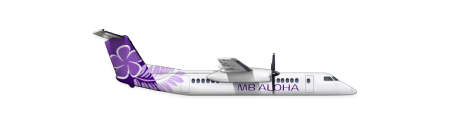
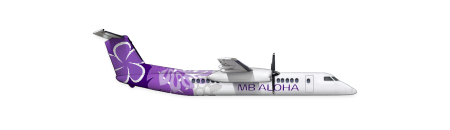
Moved global unity to footer. New MB aloha livery

Changed region(s): [[0.2489, 0.3077, 0.4978, 0.7385]]

diff --git a/flight-status.html b/flight-status.html
@@ -33,11 +33,6 @@
 	</head>
 	<body>
         <header>
-			<div class="gu-section">
-				<span>A Global Unity Alliance Member</span>
-			 	<img src="assets/images/logos/gu_big.png">
-		 	</div>
-
 			<div class="flex-section">
 				<a href="index.html"><img class="logo-img" src="assets/images/logos/mb_logo_web_4.png" alt="MB Airways" /></a>
 				<nav>
@@ -122,12 +117,16 @@
 						<li><a href="https://mb-airways.blogspot.com">Newsroom</a></li>
 					</ul>
 				</div>
-				<div style="text-align:center; align-self: center; color: var(--light-gray-color)">
-					<p>
-						Copyright &copy; 2023 MB Airways. All rights reserved.<br/>
-						MB Airways is a fictitious airline.<br/>
-						No products or services are being offered for sale.
-					</p>
+				<div style="text-align:right; display: flex; flex-direction: column; justify-content: space-evenly; color: var(--light-gray-color)">
+					<small class="gu-section">
+						<span>A Global Unity Alliance Member</span>
+						<img src="assets/images/logos/gu_big.png">
+					</small>
+					<small>
+						Copyright &copy; 2023. All rights reserved<br/>
+						MB Airways is a fictitious airline.	No products<br/>
+						or services are available for purchase
+					</small>
 				</div>
 			</div>
 		</footer>

diff --git a/index.html b/index.html
@@ -27,11 +27,6 @@
 	</head>
 	<body>
 		<header>
-			<div class="gu-section">
-				<span>A Global Unity Alliance Member</span>
-			 	<img src="assets/images/logos/gu_big.png">
-		 	</div>
-
 			<div class="flex-section">
 				<a href="index.html"><img class="logo-img" src="assets/images/logos/mb_logo_web_4.png" alt="MB Airways" /></a>
 				<nav>
@@ -318,12 +313,16 @@
 						<li><a href="https://mb-airways.blogspot.com">Newsroom</a></li>
 					</ul>
 				</div>
-				<div style="text-align:center; align-self: center; color: var(--light-gray-color)">
-					<p>
-						Copyright &copy; 2023 MB Airways. All rights reserved.<br/>
-						MB Airways is a fictitious airline.<br/>
-						No products or services are being offered for sale.
-					</p>
+				<div style="text-align:right; display: flex; flex-direction: column; justify-content: space-evenly; color: var(--light-gray-color)">
+					<small class="gu-section">
+						<span>A Global Unity Alliance Member</span>
+						<img src="assets/images/logos/gu_big.png">
+					</small>
+					<small>
+						Copyright &copy; 2023. All rights reserved<br/>
+						MB Airways is a fictitious airline.	No products<br/>
+						or services are available for purchase
+					</small>
 				</div>
 			</div>
 		</footer>

diff --git a/reservations.html b/reservations.html
@@ -26,11 +26,6 @@
 	</head>
 	<body>
 		<header>
-			<div class="gu-section">
-				<span>A Global Unity Alliance Member</span>
-			 	<img src="assets/images/logos/gu_big.png">
-		 	</div>
-
 			<div class="flex-section">
 				<a href="index.html"><img class="logo-img" src="assets/images/logos/mb_logo_web_4.png" alt="MB Airways" /></a>
 				<nav>
@@ -103,12 +98,16 @@
 						<li><a href="https://mb-airways.blogspot.com">Newsroom</a></li>
 					</ul>
 				</div>
-				<div style="text-align:center; align-self: center; color: var(--light-gray-color)">
-					<p>
-						Copyright &copy; 2023 MB Airways. All rights reserved.<br/>
-						MB Airways is a fictitious airline.<br/>
-						No products or services are being offered for sale.
-					</p>
+				<div style="text-align:right; display: flex; flex-direction: column; justify-content: space-evenly; color: var(--light-gray-color)">
+					<small class="gu-section">
+						<span>A Global Unity Alliance Member</span>
+						<img src="assets/images/logos/gu_big.png">
+					</small>
+					<small>
+						Copyright &copy; 2023. All rights reserved<br/>
+						MB Airways is a fictitious airline.	No products<br/>
+						or services are available for purchase
+					</small>
 				</div>
 			</div>
 		</footer>

diff --git a/assets/styles/main.css b/assets/styles/main.css
@@ -130,8 +130,7 @@ hr.big {
 }
 
 .gu-section {
-	color: var(--gu-primary-color);
-	font-size: 80%;
+	color: var(--light-gray-color);
 	display: flex;
 	justify-content: flex-end;
 	align-items: center;
